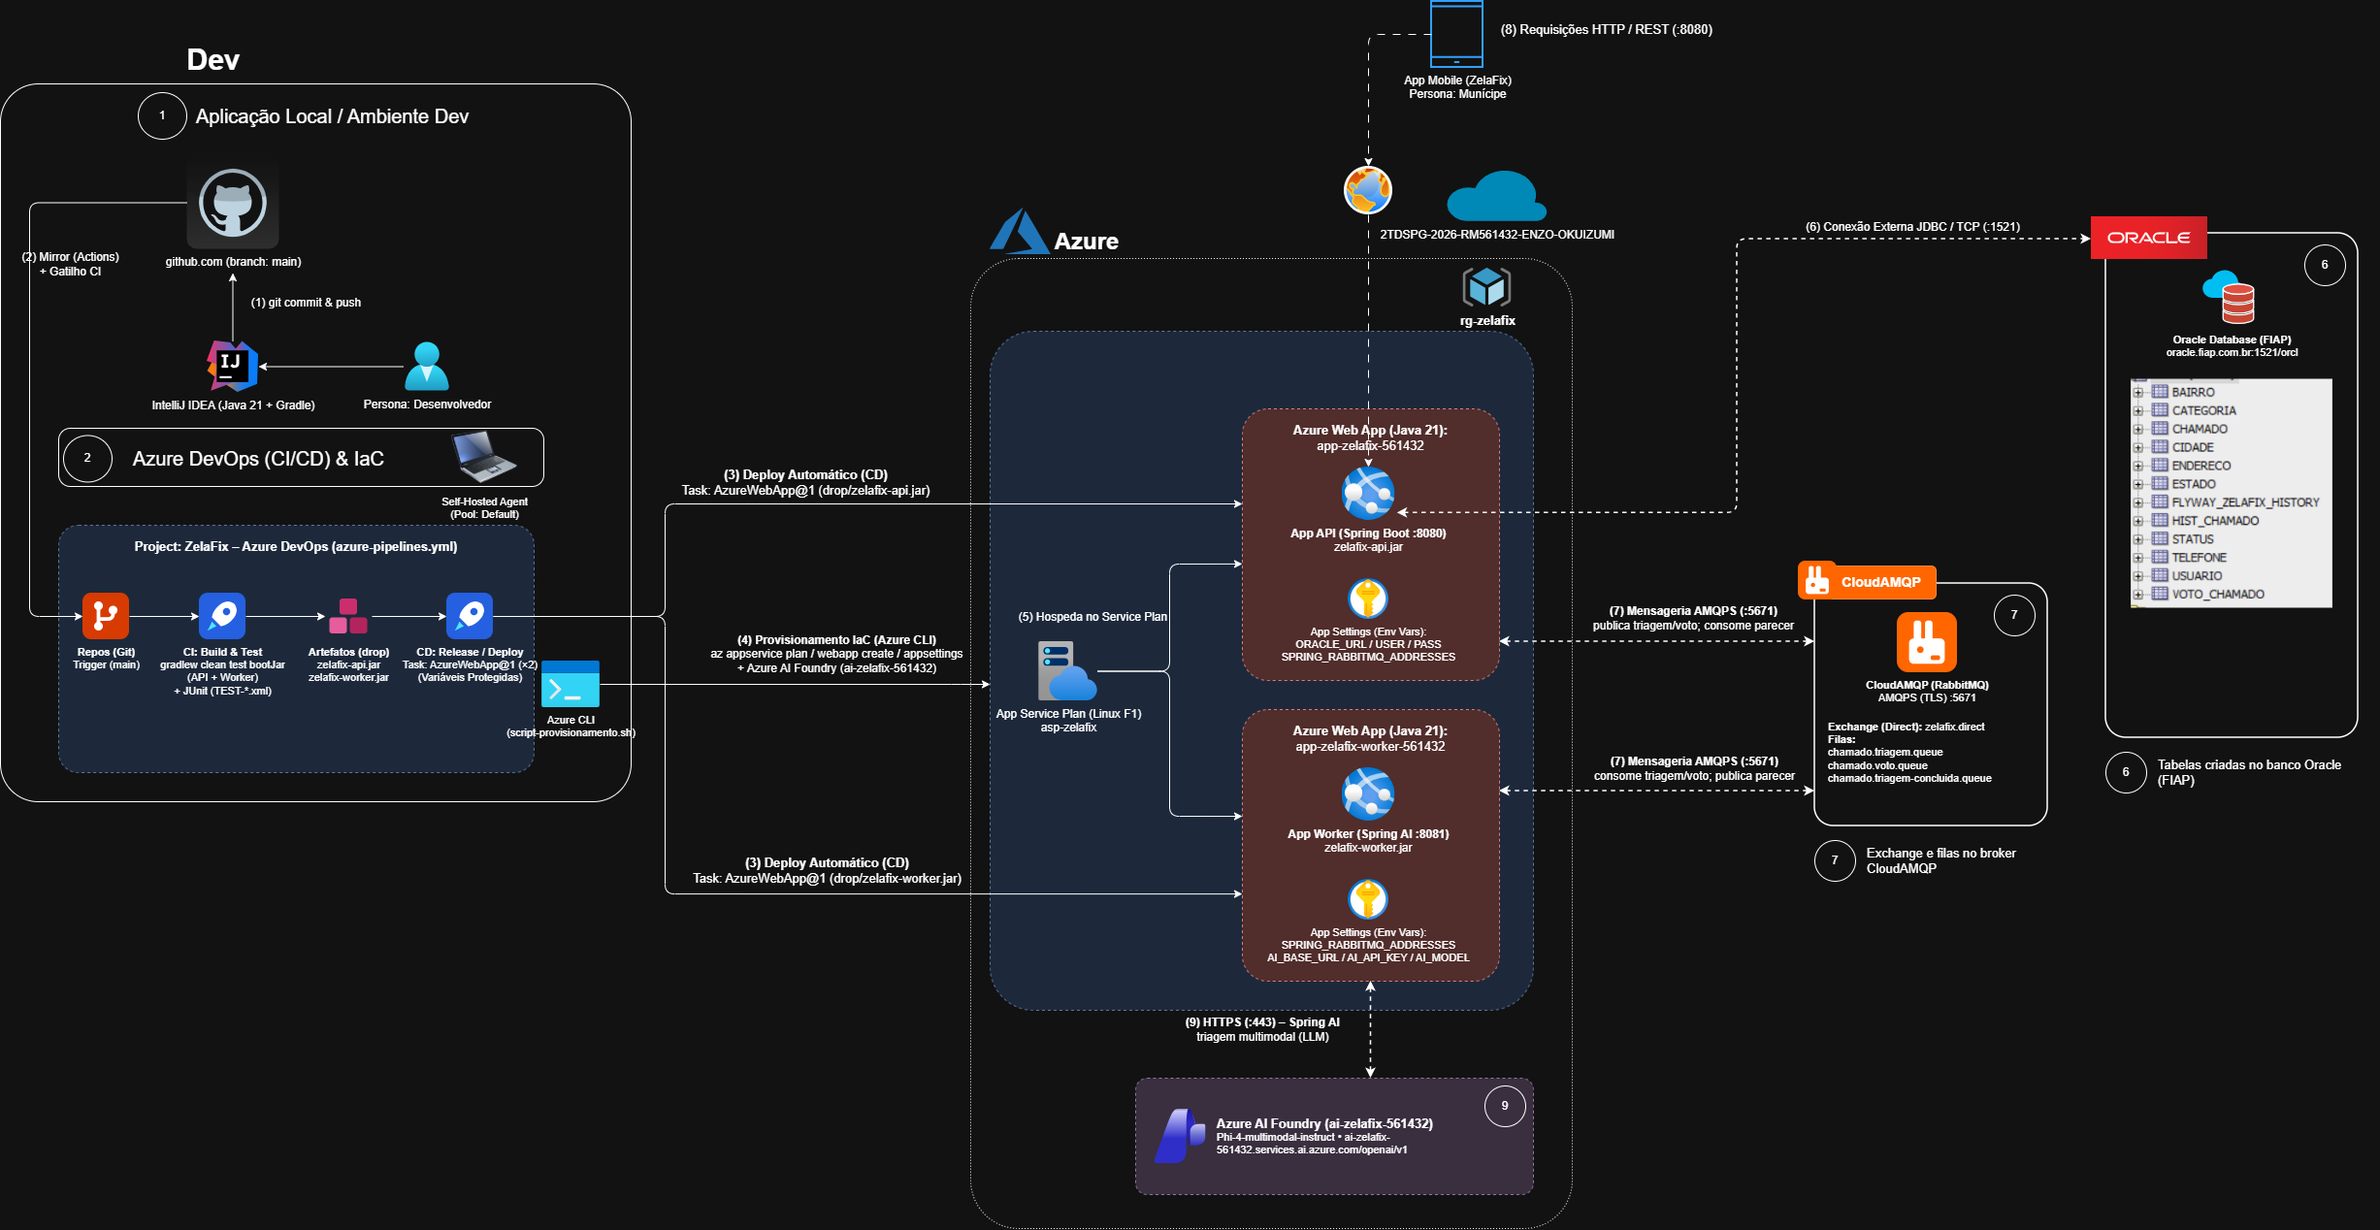
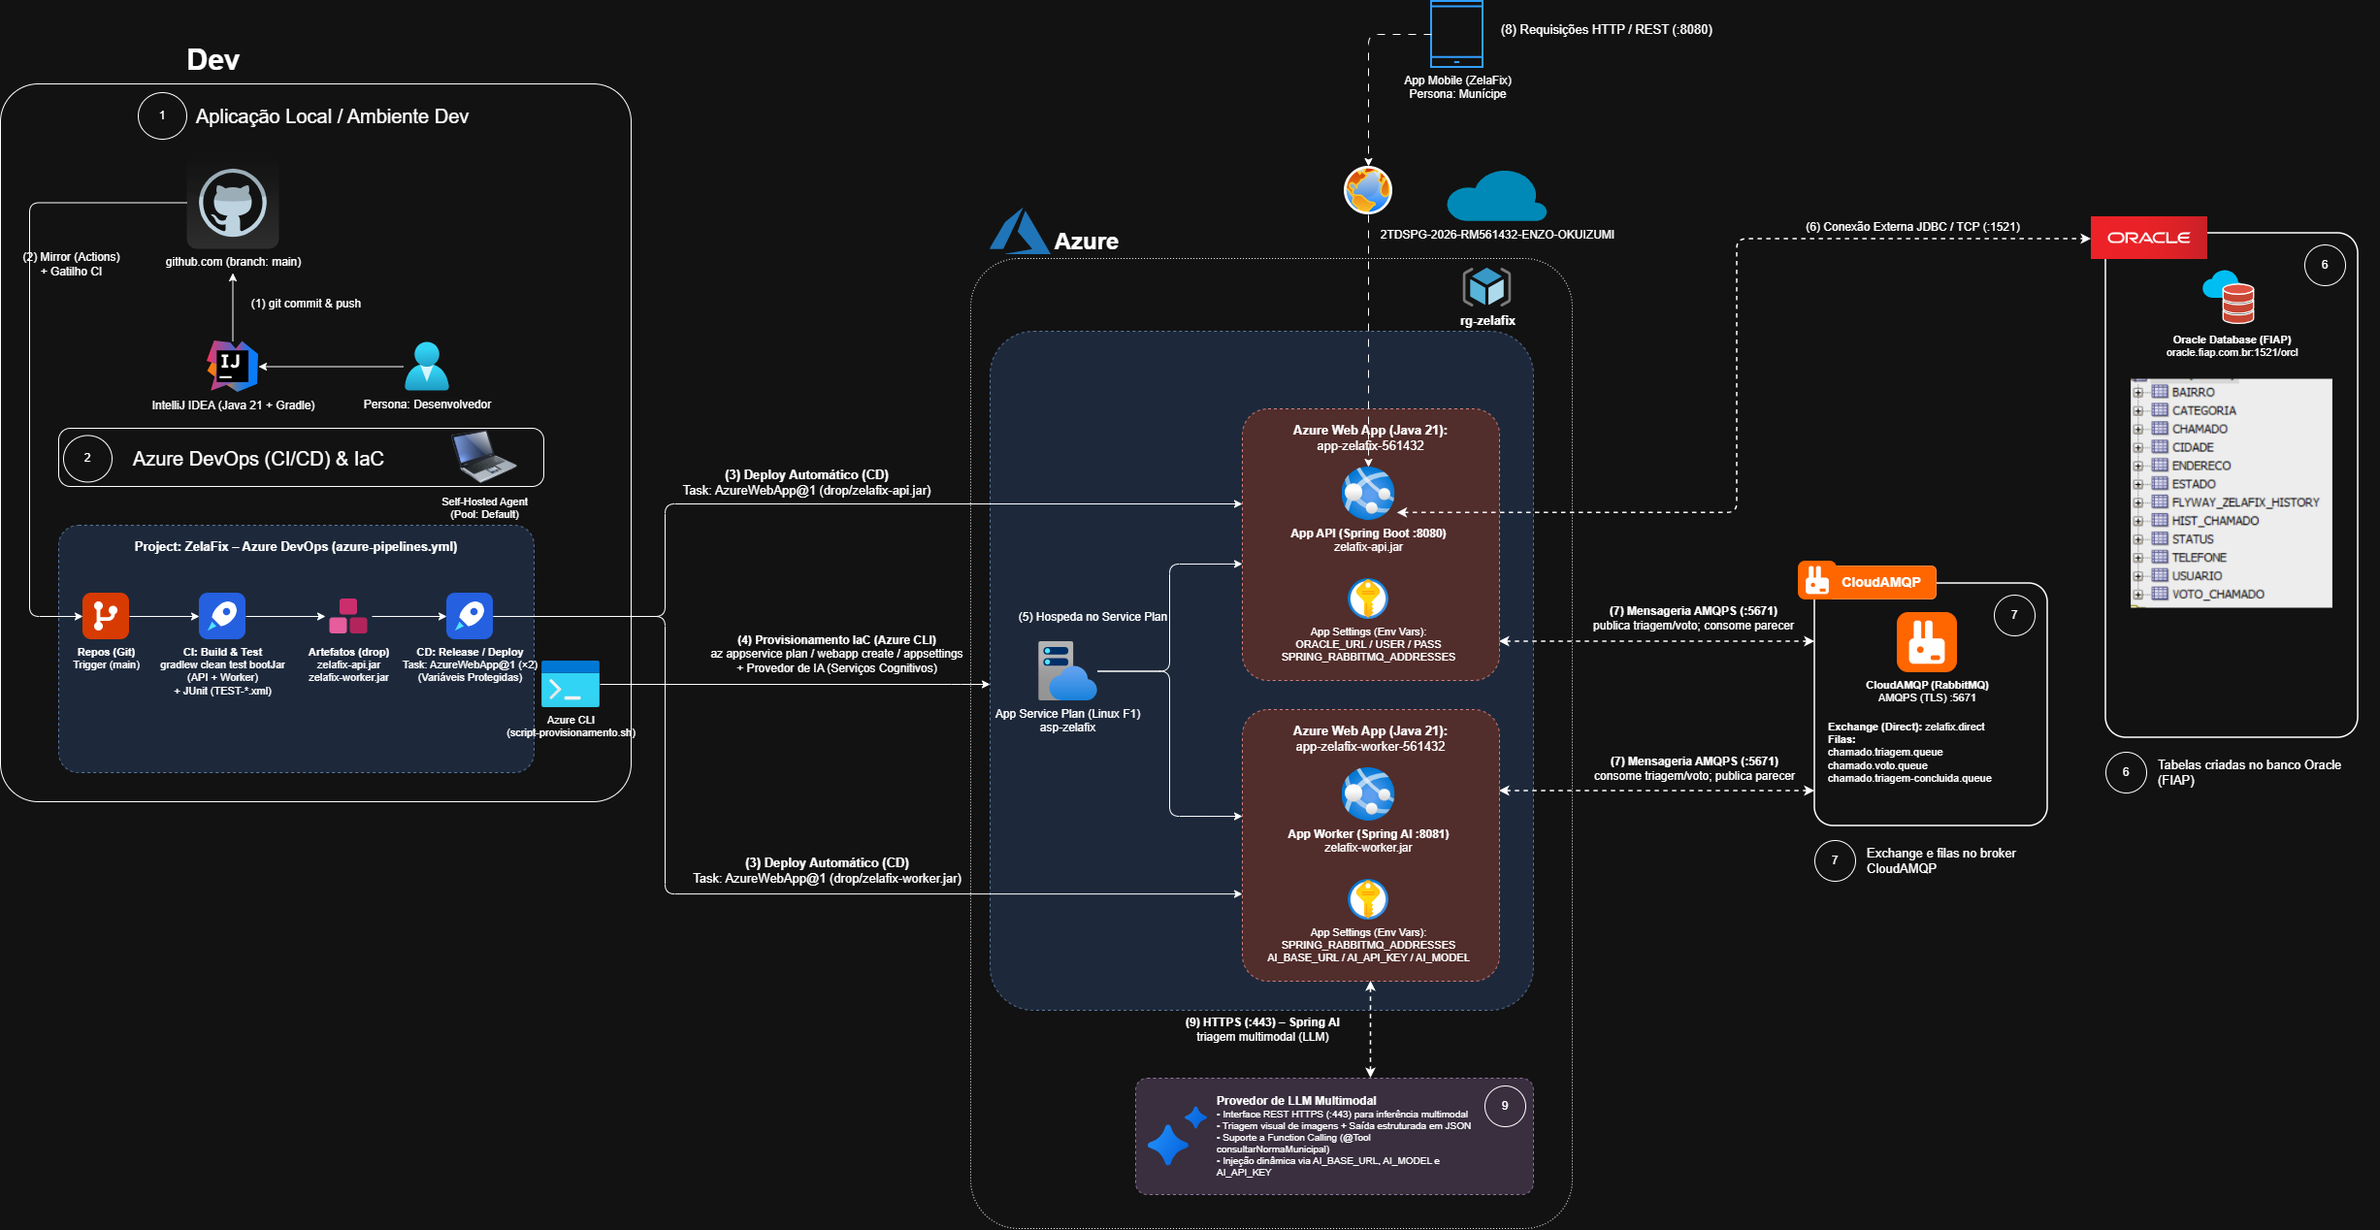
feat(ai,triagem): adotar fail-fast na IA, historico duplo no chamado e sincronizar docs

diff --git a/zelafix-worker/src/main/java/fiap/com/br/zelafix/worker/ai/ZelaFixAiService.java b/zelafix-worker/src/main/java/fiap/com/br/zelafix/worker/ai/ZelaFixAiService.java
@@ -6,13 +6,8 @@ import lombok.extern.slf4j.Slf4j;
 import org.springframework.ai.chat.client.ChatClient;
 import org.springframework.ai.chat.client.advisor.SimpleLoggerAdvisor;
 import org.springframework.core.io.ByteArrayResource;
-import org.springframework.resilience.annotation.Retryable;
-import org.springframework.resilience.retry.MethodRetryPredicate;
 import org.springframework.stereotype.Service;
 import org.springframework.util.MimeType;
-import org.springframework.web.client.RestClientResponseException;
-
-import java.lang.reflect.Method;
 
 /**
  * Serviço de Inteligência Artificial Generativa e Multimodal com Spring AI.
@@ -22,7 +17,7 @@ import java.lang.reflect.Method;
  * - Tool Calling declarativo ({@link TriagemNormativaTools}) para normas municipais e SLA.
  * - Visão multimodal com detecção de MIME type e prompt parametrizado.
  * - Structured Output validado com {@code EntityParamSpec::validateSchema} e limite UTF-8 Oracle.
- * - Resiliência com {@link Retryable} (backoff exponencial + jitter).
+ * - Estratégia Fail-Fast imediata delegando contingência graciosa ao {@code ChamadoAiConsumer}.
  */
 @Slf4j
 @Service
@@ -66,7 +61,6 @@ public class ZelaFixAiService {
                 .build();
     }
 
-    @Retryable(maxRetries = 2, delay = 500, jitter = 150, multiplier = 2, maxDelay = 2_000, predicate = AbortOnClientErrorPredicate.class)
     public TriagemIaResult analisarChamado(String bairro, byte[] fotoBytes) {
         log.info("Invocando endpoint de IA para bairro: '{}' (tamanho da foto: {} bytes)", bairro, fotoBytes.length);
         long start = System.currentTimeMillis();
@@ -83,19 +77,5 @@ public class ZelaFixAiService {
                 .comLimitesOracle();
         log.info("Retorno da IA recebido com sucesso em {}ms: [válida={}] {} (prioridade={}, órgão={})", System.currentTimeMillis() - start, resultado.ocorrenciaValida(), resultado.titulo(), resultado.prioridade(), resultado.orgaoResponsavel());
         return resultado;
-    }
-
-    static class AbortOnClientErrorPredicate implements MethodRetryPredicate {
-        @Override
-        public boolean shouldRetry(Method method, Throwable throwable) {
-            for (Throwable t = throwable; t != null; t = t.getCause()) {
-                String className = t.getClass().getSimpleName();
-                String msg = t.getMessage();
-                if ("NonTransientAiException".equals(className) || t instanceof RestClientResponseException || (msg != null && (msg.contains("429") || msg.toLowerCase().contains("quota")))) {
-                    return false;
-                }
-            }
-            return true;
-        }
     }
 }

diff --git a/zelafix-api/src/test/java/fiap/com/br/zelafix/chamado/ChamadoServiceTest.java b/zelafix-api/src/test/java/fiap/com/br/zelafix/chamado/ChamadoServiceTest.java
@@ -45,6 +45,7 @@ import org.mockito.junit.jupiter.MockitoExtension;
 
 import java.nio.charset.StandardCharsets;
 import java.time.LocalDateTime;
+import java.util.ArrayList;
 import java.util.List;
 import java.util.Optional;
 import java.util.Set;
@@ -405,13 +406,19 @@ class ChamadoServiceTest {
         when(categoriaService.findByNome(CategoriaEnum.VIAS_E_PAVIMENTACAO)).thenReturn(catIa);
         when(prioridadeService.findByNome(PrioridadeEnum.ALTA)).thenReturn(prioAlta);
         when(orgaoGovernoService.findByNome(OrgaoGovernoEnum.SECRETARIA_OBRAS)).thenReturn(orgao);
+        when(statusService.findByNome(StatusChamadoEnum.PENDENTE)).thenReturn(statusPendente);
         when(statusService.findByNome(StatusChamadoEnum.EM_ANALISE)).thenReturn(statusEmAnalise);
         when(chamadoRepository.save(any(Chamado.class))).thenAnswer(inv -> {
             Chamado c = inv.getArgument(0);
             c.setIdChamado(100L);
             return c;
         });
-        when(histChamadoRepository.save(any(HistChamado.class))).thenAnswer(inv -> inv.getArgument(0));
+        when(histChamadoRepository.saveAll(any())).thenAnswer(inv -> {
+            Iterable<HistChamado> list = inv.getArgument(0);
+            List<HistChamado> result = new ArrayList<>();
+            list.forEach(result::add);
+            return result;
+        });
 
         var feedback = TriagemFeedbackMessage.builder()
                 .correlationId("corr-10")
@@ -442,13 +449,11 @@ class ChamadoServiceTest {
 
         verify(votoChamadoRepository).save(any(VotoChamado.class));
 
-        ArgumentCaptor<HistChamado> histCaptor = ArgumentCaptor.forClass(HistChamado.class);
-        verify(histChamadoRepository).save(histCaptor.capture());
-        HistChamado historico = histCaptor.getValue();
-        assertEquals(criado, historico.getChamado());
-        assertEquals(usuario, historico.getUsuario());
-        assertEquals(statusEmAnalise, historico.getStatus());
-        assertTrue(historico.getObservacoes().getBytes(StandardCharsets.UTF_8).length <= 255);
+        verify(histChamadoRepository).saveAll(any());
+        assertEquals(2, response.historico().size());
+        assertEquals("EM_ANALISE", response.historico().get(0).status());
+        assertEquals("PENDENTE", response.historico().get(1).status());
+        assertTrue(response.historico().get(0).observacao().getBytes(StandardCharsets.UTF_8).length <= 255);
     }
 
     @Test

diff --git a/zelafix-worker/src/test/java/fiap/com/br/zelafix/worker/ai/ZelaFixAiServiceTest.java b/zelafix-worker/src/test/java/fiap/com/br/zelafix/worker/ai/ZelaFixAiServiceTest.java
@@ -14,16 +14,13 @@ import org.mockito.Mock;
 import org.mockito.junit.jupiter.MockitoExtension;
 import org.springframework.ai.chat.client.ChatClient;
 import org.springframework.ai.chat.client.advisor.api.Advisor;
-import org.springframework.http.HttpHeaders;
-import org.springframework.http.HttpStatus;
-import org.springframework.web.client.HttpClientErrorException;
 
 import java.nio.charset.StandardCharsets;
 import java.util.function.Consumer;
 
 import static org.junit.jupiter.api.Assertions.assertEquals;
-import static org.junit.jupiter.api.Assertions.assertFalse;
 import static org.junit.jupiter.api.Assertions.assertNotNull;
+import static org.junit.jupiter.api.Assertions.assertThrows;
 import static org.junit.jupiter.api.Assertions.assertTrue;
 import static org.mockito.ArgumentMatchers.any;
 import static org.mockito.ArgumentMatchers.anyString;
@@ -144,13 +141,16 @@ class ZelaFixAiServiceTest {
     }
 
     @Test
-    @DisplayName("Não deve tentar retry para erros 4xx/429 nem permitir repetição em cadeia")
-    void naoDeveFazerRetryParaErroClienteOuQuota() {
-        var predicate = new ZelaFixAiService.AbortOnClientErrorPredicate();
-        var tooManyRequests = HttpClientErrorException.create(HttpStatus.TOO_MANY_REQUESTS, "Too Many Requests", HttpHeaders.EMPTY, new byte[0], null);
-        assertFalse(predicate.shouldRetry(null, tooManyRequests));
-        assertFalse(predicate.shouldRetry(null, new RuntimeException(tooManyRequests)));
-        assertTrue(predicate.shouldRetry(null, new RuntimeException("Timeout transitório")));
+    @DisplayName("Deve falhar rápido (Fail-Fast) propagando exceção para acionar contingência no consumer")
+    void devePropagarExcecaoSemRetry() {
+        when(chatClient.prompt()
+                .user(ArgumentMatchers.<Consumer<ChatClient.PromptUserSpec>>any())
+                .call())
+                .thenThrow(new RuntimeException("OpenRouter timeout ou indisponibilidade"));
+
+        assertThrows(RuntimeException.class, () ->
+                aiService.analisarChamado("Centro", new byte[]{(byte) 0xFF, (byte) 0xD8, (byte) 0xFF, (byte) 0xE0})
+        );
     }
 
     private void stubRespostaIa(TriagemIaResult resposta) {

diff --git a/zelafix-api/src/main/java/fiap/com/br/zelafix/queue/dto/TriagemFeedbackMessage.java b/zelafix-api/src/main/java/fiap/com/br/zelafix/queue/dto/TriagemFeedbackMessage.java
@@ -15,7 +15,9 @@ import fiap.com.br.zelafix.historico.status.StatusChamadoEnum;
 import fiap.com.br.zelafix.usuario.Usuario;
 import lombok.Builder;
 
-import java.time.LocalDateTime;
+import java.util.List;
+import java.util.function.Function;
+
 
 @Builder
 @JsonIgnoreProperties(ignoreUnknown = true)
@@ -45,7 +47,6 @@ public record TriagemFeedbackMessage(
                 .titulo(titulo)
                 .descricao(descricao)
                 .foto(foto)
-                .dtAbertura(LocalDateTime.now())
                 .usuario(usuario)
                 .endereco(endereco)
                 .categoria(categoria)
@@ -59,8 +60,19 @@ public record TriagemFeedbackMessage(
                 .chamado(chamado)
                 .usuario(chamado.getUsuario())
                 .status(status)
-                .dtMudanca(LocalDateTime.now())
                 .observacoes(observacoes)
                 .build();
+    }
+
+    public List<HistChamado> toHistoricos(Chamado chamado, Function<StatusChamadoEnum, Status> statusLookup) {
+        HistChamado inicial = HistChamado.builder()
+                .chamado(chamado)
+                .usuario(chamado.getUsuario())
+                .status(statusLookup.apply(StatusChamadoEnum.PENDENTE))
+                .observacoes("Chamado registrado pelo cidadão " + chamado.getUsuario().getNmUsuario() + " via ZelaFix Mobile.")
+                .build();
+        return status == StatusChamadoEnum.PENDENTE
+                ? List.of(inicial)
+                : List.of(inicial, toEntity(chamado, statusLookup.apply(status)));
     }
 }

diff --git a/tests/test_all_endpoints.py b/tests/test_all_endpoints.py
@@ -130,7 +130,7 @@ status, chamados = request("GET", "/chamados", token=municipe_token)
 print(f"GET /chamados: {status} -> Total chamados: {chamados.get('totalElements') if isinstance(chamados, dict) else 'N/A'}")
 
 print("\n" + "=" * 70)
-print("7. CRIANDO NOVO CHAMADO (RABBITMQ + AZURE AI ASSÍNCRONO)")
+print("7. CRIANDO NOVO CHAMADO (RABBITMQ + LLM MULTIMODAL ASSÍNCRONO)")
 print("=" * 70)
 foto_b64 = base64.b64encode(IMG_PATH.read_bytes()).decode("utf-8")
 novo_chamado = {
@@ -147,7 +147,7 @@ chamado_id = chamado_criado.get("idChamado") if isinstance(chamado_criado, dict)
 print(f"POST /chamados: {status} -> ID Gerado: {chamado_id}, Prioridade Inicial: {chamado_criado.get('prioridadeNome') if isinstance(chamado_criado, dict) else chamado_criado}")
 
 if chamado_id:
-    print("\nAguardando 15 segundos para o zelafix-worker consumir do RabbitMQ e acionar o Azure Phi-4 Multimodal...")
+    print("\nAguardando 15 segundos para o zelafix-worker consumir do RabbitMQ e acionar o LLM Multimodal...")
     time.sleep(15)
     status, chamado_detalhe = request("GET", f"/chamados/{chamado_id}", token=municipe_token)
     print(f"GET /chamados/{chamado_id}: {status}")

diff --git a/zelafix-worker/src/main/java/fiap/com/br/zelafix/worker/ZelaFixWorkerApplication.java b/zelafix-worker/src/main/java/fiap/com/br/zelafix/worker/ZelaFixWorkerApplication.java
@@ -2,20 +2,18 @@ package fiap.com.br.zelafix.worker;
 
 import org.springframework.boot.SpringApplication;
 import org.springframework.boot.autoconfigure.SpringBootApplication;
-import org.springframework.resilience.annotation.EnableResilientMethods;
 import org.springframework.scheduling.annotation.EnableScheduling;
 
 /**
  * Microsserviço 2: ZelaFix Worker (Consumidor Assíncrono RabbitMQ - Opção A)
  *
  * Responsabilidades:
- * 1. Consumir eventos de triagem da fila 'chamado.triagem.queue' e executar análise via Spring AI.
+ * 1. Consumir eventos de triagem da fila 'chamado.triagem.queue' e executar análise via Spring AI com estratégia Fail-Fast.
  * 2. Consumir votos da fila 'chamado.voto.queue' e agregar via buffer em memória (ConcurrentHashMap)
  *    com consolidação periódica em log (Stateless).
  */
 @SpringBootApplication
 @EnableScheduling
-@EnableResilientMethods
 public class ZelaFixWorkerApplication {
 
     public static void main(String[] args) {

diff --git a/zelafix-api/src/main/java/fiap/com/br/zelafix/chamado/ChamadoService.java b/zelafix-api/src/main/java/fiap/com/br/zelafix/chamado/ChamadoService.java
@@ -162,11 +162,8 @@ public class ChamadoService {
                 orgaoGovernoService.findByNome(feedback.orgao())
         ));
         votoChamadoRepository.save(new VotoMessage(salvo.getIdChamado(), autor.getIdUsuario(), "VOTAR").toEntity(salvo, autor));
-        HistChamado historico = histChamadoRepository.save(feedback.toEntity(
-                salvo,
-                statusService.findByNome(feedback.status())
-        ));
-        return ChamadoResponse.fromEntity(salvo, feedback.status().name(), 1L, true, List.of(historico));
+        List<HistChamado> hist = histChamadoRepository.saveAll(feedback.toHistoricos(salvo, statusService::findByNome));
+        return ChamadoResponse.fromEntity(salvo, feedback.status().name(), 1L, true, hist.reversed());
     }
 
     // =========================================================================

diff --git a/zelafix-api/src/main/java/fiap/com/br/zelafix/chamado/dto/ChamadoStatusRequest.java b/zelafix-api/src/main/java/fiap/com/br/zelafix/chamado/dto/ChamadoStatusRequest.java
@@ -9,8 +9,6 @@ import fiap.com.br.zelafix.validation.EnumValidation;
 import jakarta.validation.constraints.NotBlank;
 import jakarta.validation.constraints.Size;
 
-import java.time.LocalDateTime;
-
 public record ChamadoStatusRequest(
         @NotBlank(message = "O status é obrigatório.")
         @EnumValidation(enumClass = StatusChamadoEnum.class, message = "Status inválido. Valores aceitos: PENDENTE, EM_ANALISE, EM_EXECUCAO, CONCLUIDO, REJEITADO")
@@ -25,7 +23,6 @@ public record ChamadoStatusRequest(
                 .chamado(chamado)
                 .usuario(operador)
                 .status(novoStatus)
-                .dtMudanca(LocalDateTime.now())
                 .observacoes(observacao)
                 .build();
     }

diff --git a/zelafix-api/src/main/java/fiap/com/br/zelafix/chamado/Chamado.java b/zelafix-api/src/main/java/fiap/com/br/zelafix/chamado/Chamado.java
@@ -21,6 +21,7 @@ import lombok.Getter;
 import lombok.NoArgsConstructor;
 import lombok.Setter;
 
+import org.hibernate.annotations.CreationTimestamp;
 import java.time.LocalDateTime;
 
 @Entity
@@ -47,8 +48,10 @@ public class Chamado {
     @Column(name = "foto", nullable = false)
     private byte[] foto;
 
-    @Column(name = "dt_abertura", nullable = false)
-    private LocalDateTime dtAbertura;
+    @CreationTimestamp
+    @Column(name = "dt_abertura", nullable = false, updatable = false)
+    @Builder.Default
+    private LocalDateTime dtAbertura = LocalDateTime.now();
 
     @ManyToOne(fetch = FetchType.EAGER)
     @JoinColumn(name = "usuario_id_usuario", nullable = false)

diff --git a/zelafix-api/src/main/java/fiap/com/br/zelafix/historico/HistChamado.java b/zelafix-api/src/main/java/fiap/com/br/zelafix/historico/HistChamado.java
@@ -18,6 +18,7 @@ import lombok.Getter;
 import lombok.NoArgsConstructor;
 import lombok.Setter;
 
+import org.hibernate.annotations.CreationTimestamp;
 import java.time.LocalDateTime;
 
 @Entity
@@ -34,8 +35,10 @@ public class HistChamado {
     @Column(name = "id_hist")
     private Long idHist;
 
-    @Column(name = "dt_mudanca", nullable = false)
-    private LocalDateTime dtMudanca;
+    @CreationTimestamp
+    @Column(name = "dt_mudanca", nullable = false, updatable = false)
+    @Builder.Default
+    private LocalDateTime dtMudanca = LocalDateTime.now();
 
     @Column(name = "observacoes", length = 255, nullable = false)
     private String observacoes;

diff --git a/zelafix-api/src/main/java/fiap/com/br/zelafix/voto/VotoChamado.java b/zelafix-api/src/main/java/fiap/com/br/zelafix/voto/VotoChamado.java
@@ -18,6 +18,7 @@ import lombok.Getter;
 import lombok.NoArgsConstructor;
 import lombok.Setter;
 
+import org.hibernate.annotations.CreationTimestamp;
 import java.time.LocalDateTime;
 
 @Entity
@@ -37,8 +38,10 @@ public class VotoChamado {
     @Column(name = "id_voto")
     private Long idVoto;
 
-    @Column(name = "dt_voto", nullable = false)
-    private LocalDateTime dtVoto;
+    @CreationTimestamp
+    @Column(name = "dt_voto", nullable = false, updatable = false)
+    @Builder.Default
+    private LocalDateTime dtVoto = LocalDateTime.now();
 
     @ManyToOne(fetch = FetchType.LAZY)
     @JoinColumn(name = "chamado_id_chamado", nullable = false)

diff --git a/tests/run_all_tests.py b/tests/run_all_tests.py
@@ -19,7 +19,7 @@ def main():
         ("Suite 1: Autenticação, Registro e RBAC", test_auth_and_security),
         ("Suite 2: Categorias, Status e Endereços", test_categorias_enderecos_status),
         ("Suite 3: Chamados CRUD, Fotos e Auditoria", test_chamados_crud_lifecycle),
-        ("Suite 4: Worker Spring AI (Azure AI Foundry) e Resiliência", test_worker_ai),
+        ("Suite 4: Worker Spring AI (LLM Multimodal) e Resiliência", test_worker_ai),
         ("Suite 5: Concorrência e Carga de Votos/Leituras", test_stress_load),
         ("Suite 6: Stress Máximo ao Limite (500 reqs concorrentes)", break_the_app)
     ]
